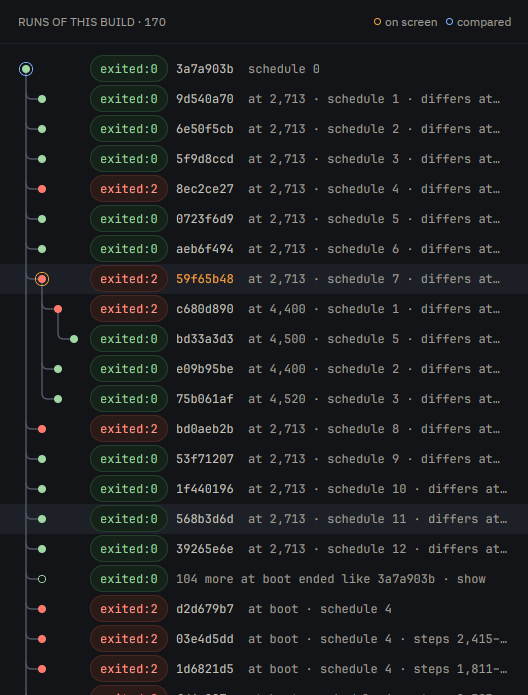
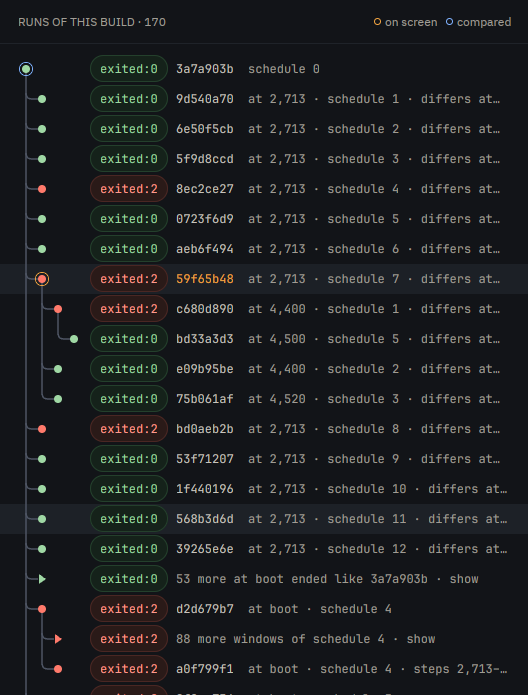
Retake the app shots with folded windows
Claude-Session: https://claude.ai/code/session_01JHGPYecv1PHANiG4SNwbAJ

diff --git a/README.md b/README.md
@@ -176,13 +176,15 @@ way ISL and Jujutsu draw a history. Each fork branches off the run it came
 from, red for failed and green for passed, with the step it forked at, its
 schedule and where it first differs. The schedules `rewind check` ran from
 boot hang off the schedule 0 run, and those that ended the way it did fold into
-one row that opens on a click. A family recorded on two machines, or with
-different `--cores`, has a schedule 0 run for each. Click a run to open it
+one row that opens on a click. The runs `check` makes narrowing a schedule to a
+window of steps hang off that schedule and fold the same way, but for the
+narrowest window that still ends as it did. A family recorded on two machines,
+or with different `--cores`, has a schedule 0 run for each. Click a run to open it
 beside the run it hangs under; right-click it to compare it with the run on
 screen, copy its id, or remove it with its forks.
 
 <p align="center">
-  <img src="docs/img/app-runs.png" alt="The Runs panel: the mylib build's 170 runs as a tree under the passing schedule 0 run, with twelve forks of it at step 2,713, one crashed fork with forks of its own at steps 4,400 and 4,520 and a fork of a fork at 4,500, one row folding the 104 schedules from boot that passed like the schedule 0 run, then the failing ones rewind check ran from boot, each with its exit status, schedule and the steps it perturbed." />
+  <img src="docs/img/app-runs.png" alt="The Runs panel: the mylib build's 170 runs as a tree under the passing schedule 0 run, with twelve forks of it at step 2,713, one crashed fork with forks of its own at steps 4,400 and 4,520 and a fork of a fork at 4,500, one row folding the 53 schedules from boot that passed like the schedule 0 run, then schedule 4, which failed, with a row folding the 88 windows rewind check narrowed it to and the narrowest window that still fails." />
 </p>
 
 <p align="center">
